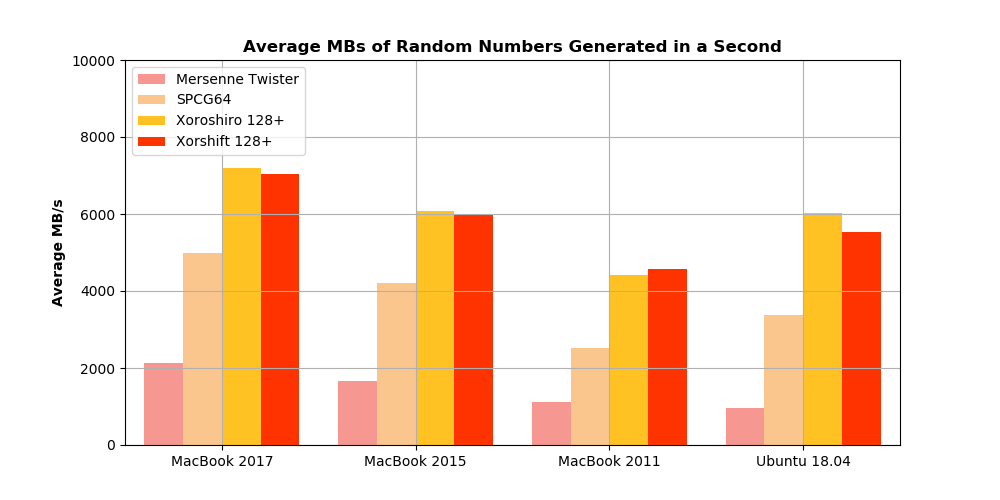
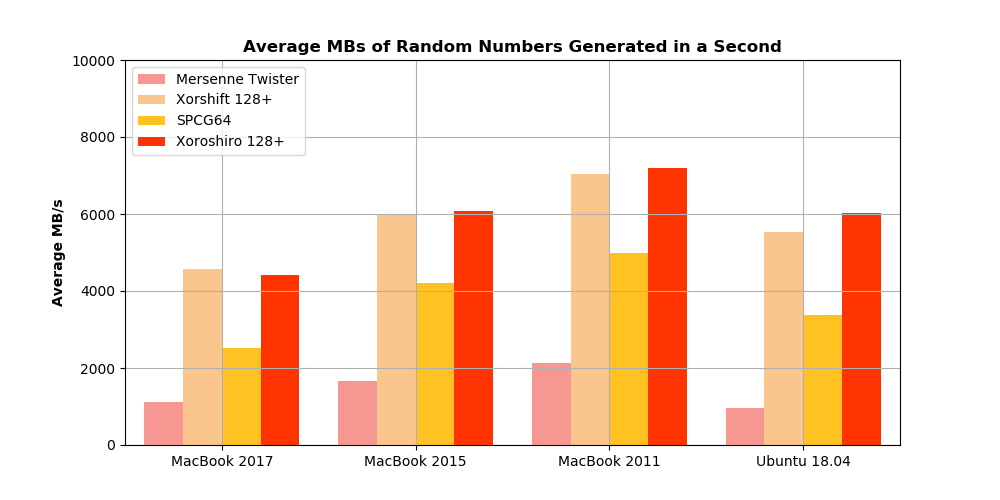
fix of average bar chart, to put the algorithms in timeline order

diff --git a/Graphing/graph_shootout_bar_charts.py b/Graphing/graph_shootout_bar_charts.py
@@ -7,7 +7,7 @@ em_data_df = pd.read_csv('./Shootout Data/Shootout_Emily.csv')
 aishah_data_df = pd.read_csv('./Shootout Data/Shootout_Aishah_Mac2011.csv')
 agni_data_df = pd.read_csv('./Shootout Data/Shootout_Agni.csv')
 
-df = pd.concat([r_data_df.mean(),em_data_df.mean(),aishah_data_df.mean(),agni_data_df.mean()],axis=1).T
+df = pd.concat([aishah_data_df.mean(),em_data_df.mean(),r_data_df.mean(),agni_data_df.mean()],axis=1).T
 
 
 # Setting the positions and width for the bars
@@ -35,7 +35,7 @@ plt.bar(pos,
 # in position pos + some width buffer,
 plt.bar([p + width for p in pos],
         #using df['mid_score'] data,
-        df['SPCG64'],
+        df['Xorshift 128+'],
         # of width
         width,
         # with alpha 0.5
@@ -49,7 +49,7 @@ plt.bar([p + width for p in pos],
 # in position pos + some width buffer,
 plt.bar([p + width*2 for p in pos],
         #using df['post_score'] data,
-        df['Xoroshiro 128+'],
+        df['SPCG64'],
         # of width
         width,
         # with alpha 0.5
@@ -63,7 +63,7 @@ plt.bar([p + width*2 for p in pos],
 # in position pos + some width buffer,
 plt.bar([p + width*3 for p in pos],
         #using df['post_score'] data,
-        df['Xorshift 128+'],
+        df['Xoroshiro 128+'],
         # of width
         width,
         # with alpha 0.5
@@ -90,7 +90,7 @@ plt.xlim(min(pos)-width, max(pos)+width*4)
 plt.ylim([0, 10000] )
 
 # Adding the legend and showing the plot
-plt.legend(['Mersenne Twister', 'SPCG64', 'Xoroshiro 128+','Xorshift 128+'], loc='upper left')
+plt.legend(['Mersenne Twister','Xorshift 128+', 'SPCG64','Xoroshiro 128+'], loc='upper left')
 plt.grid()
 #plt.show()
 plt.savefig('barchart_compare.png')
